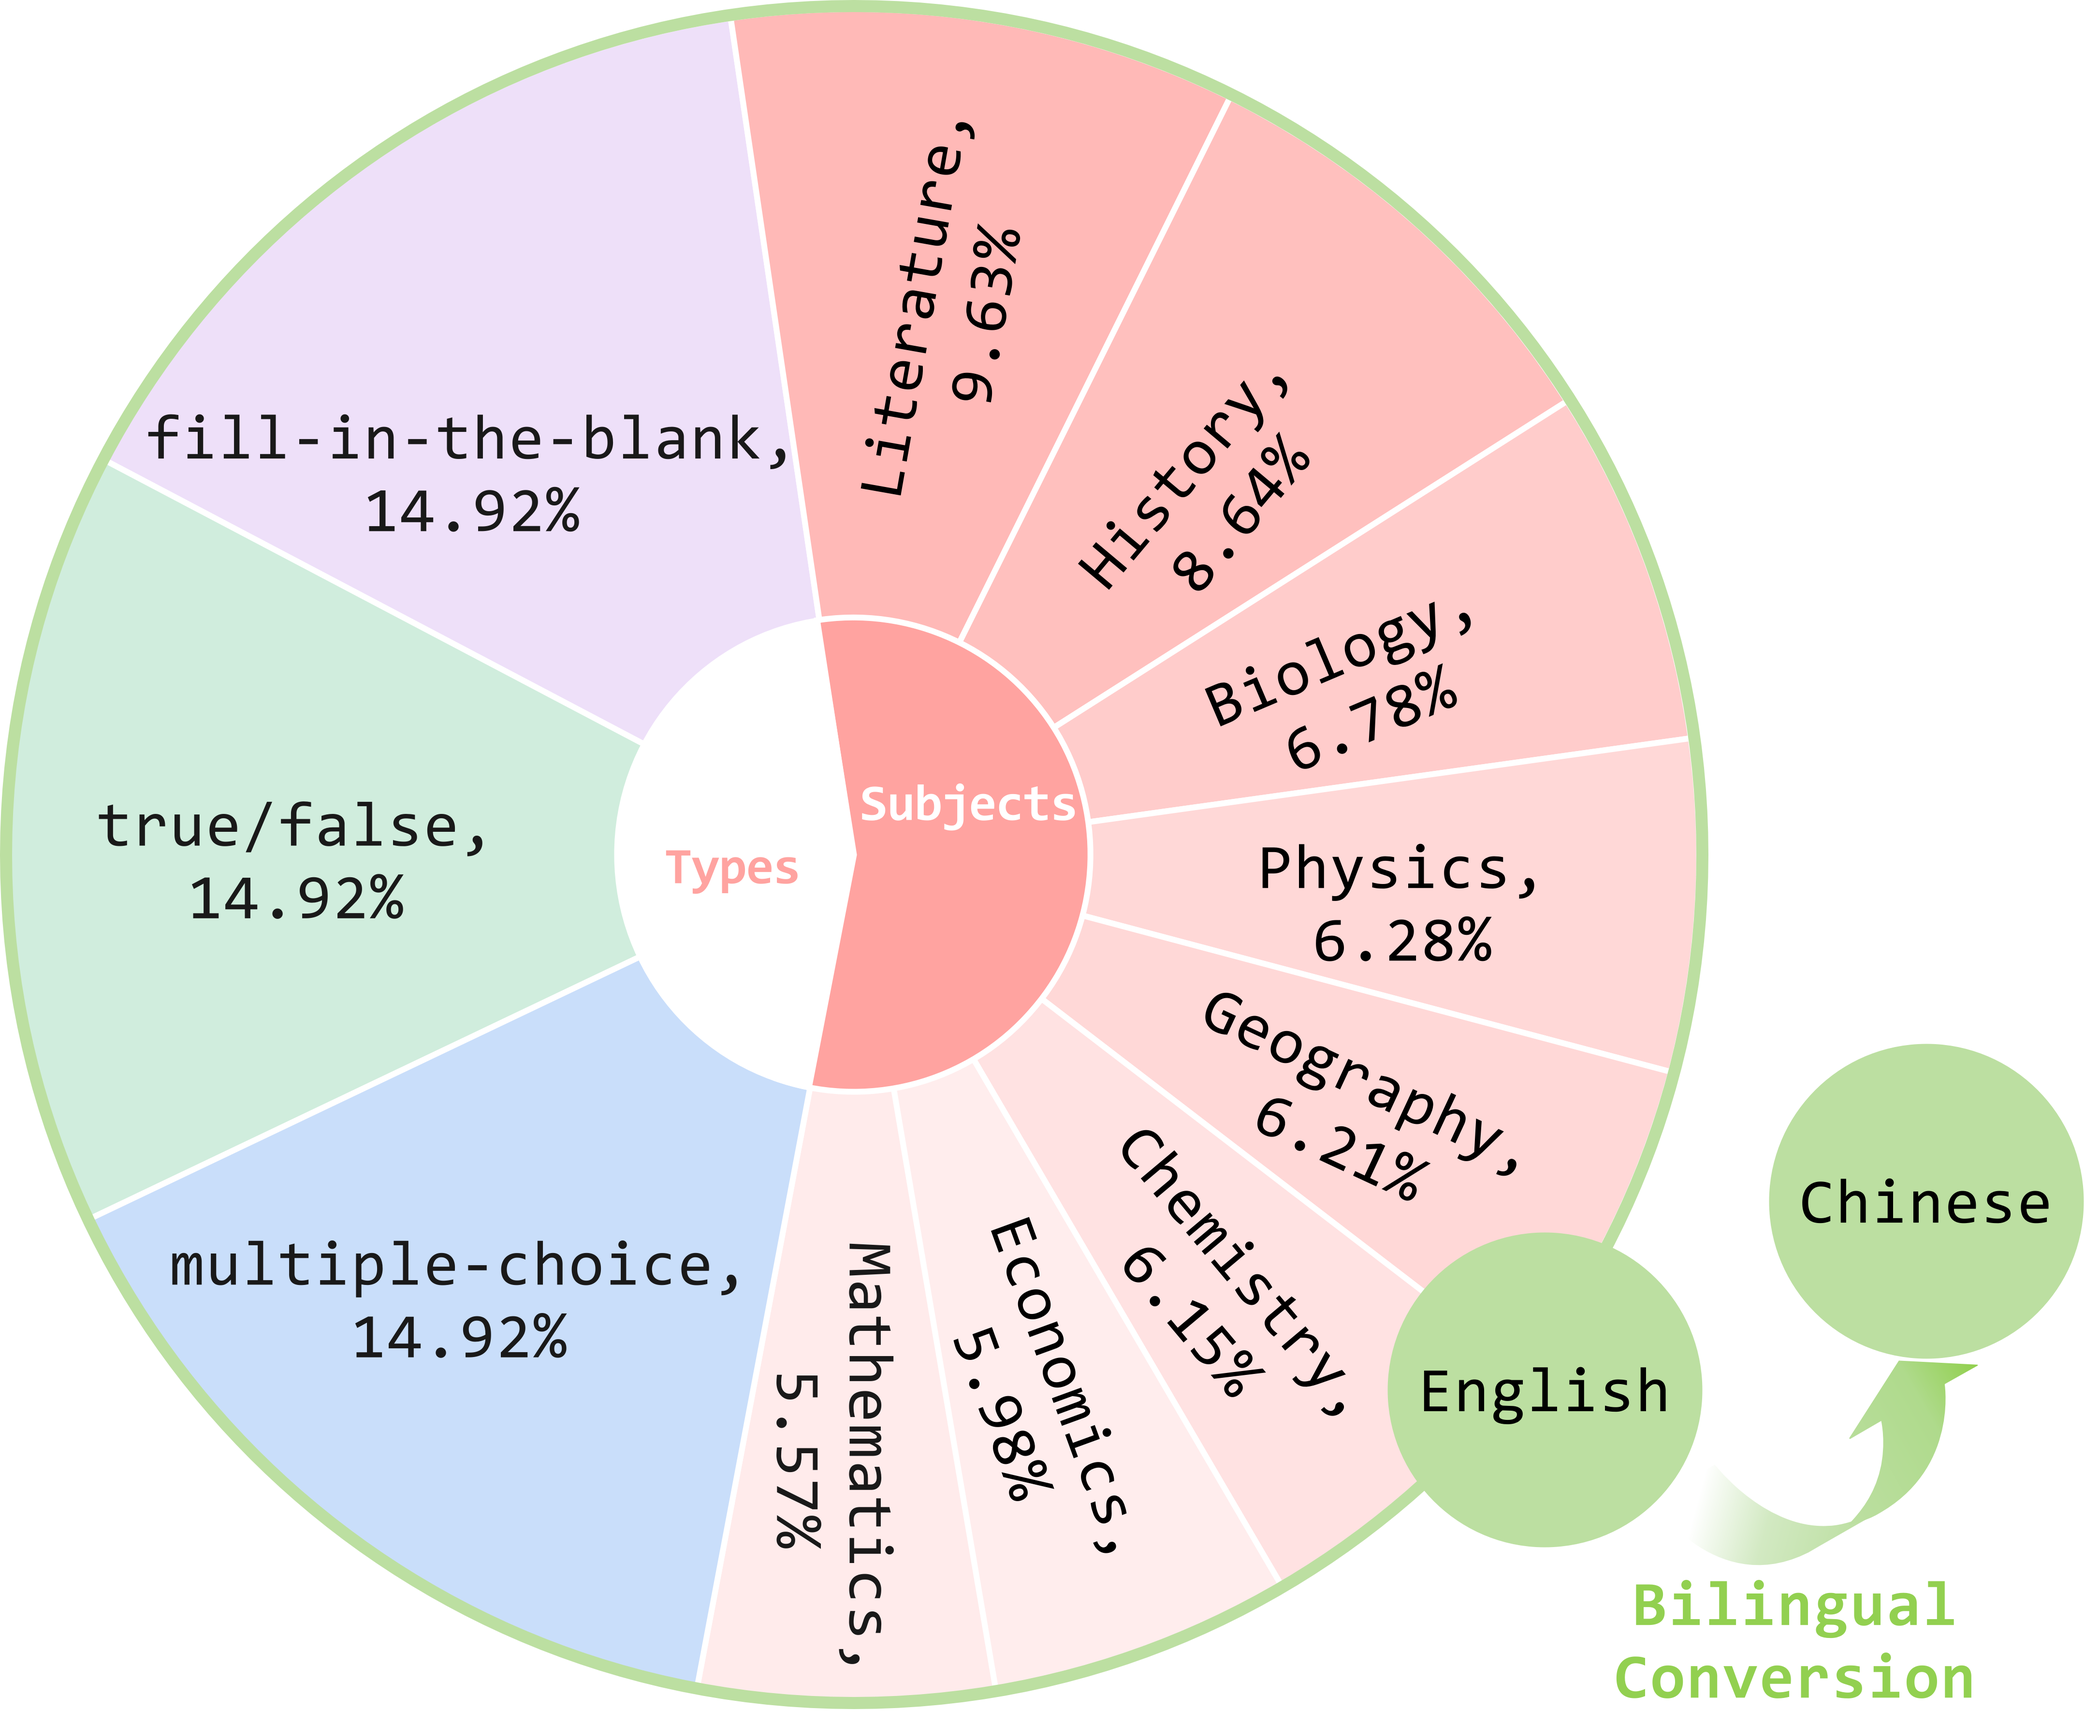
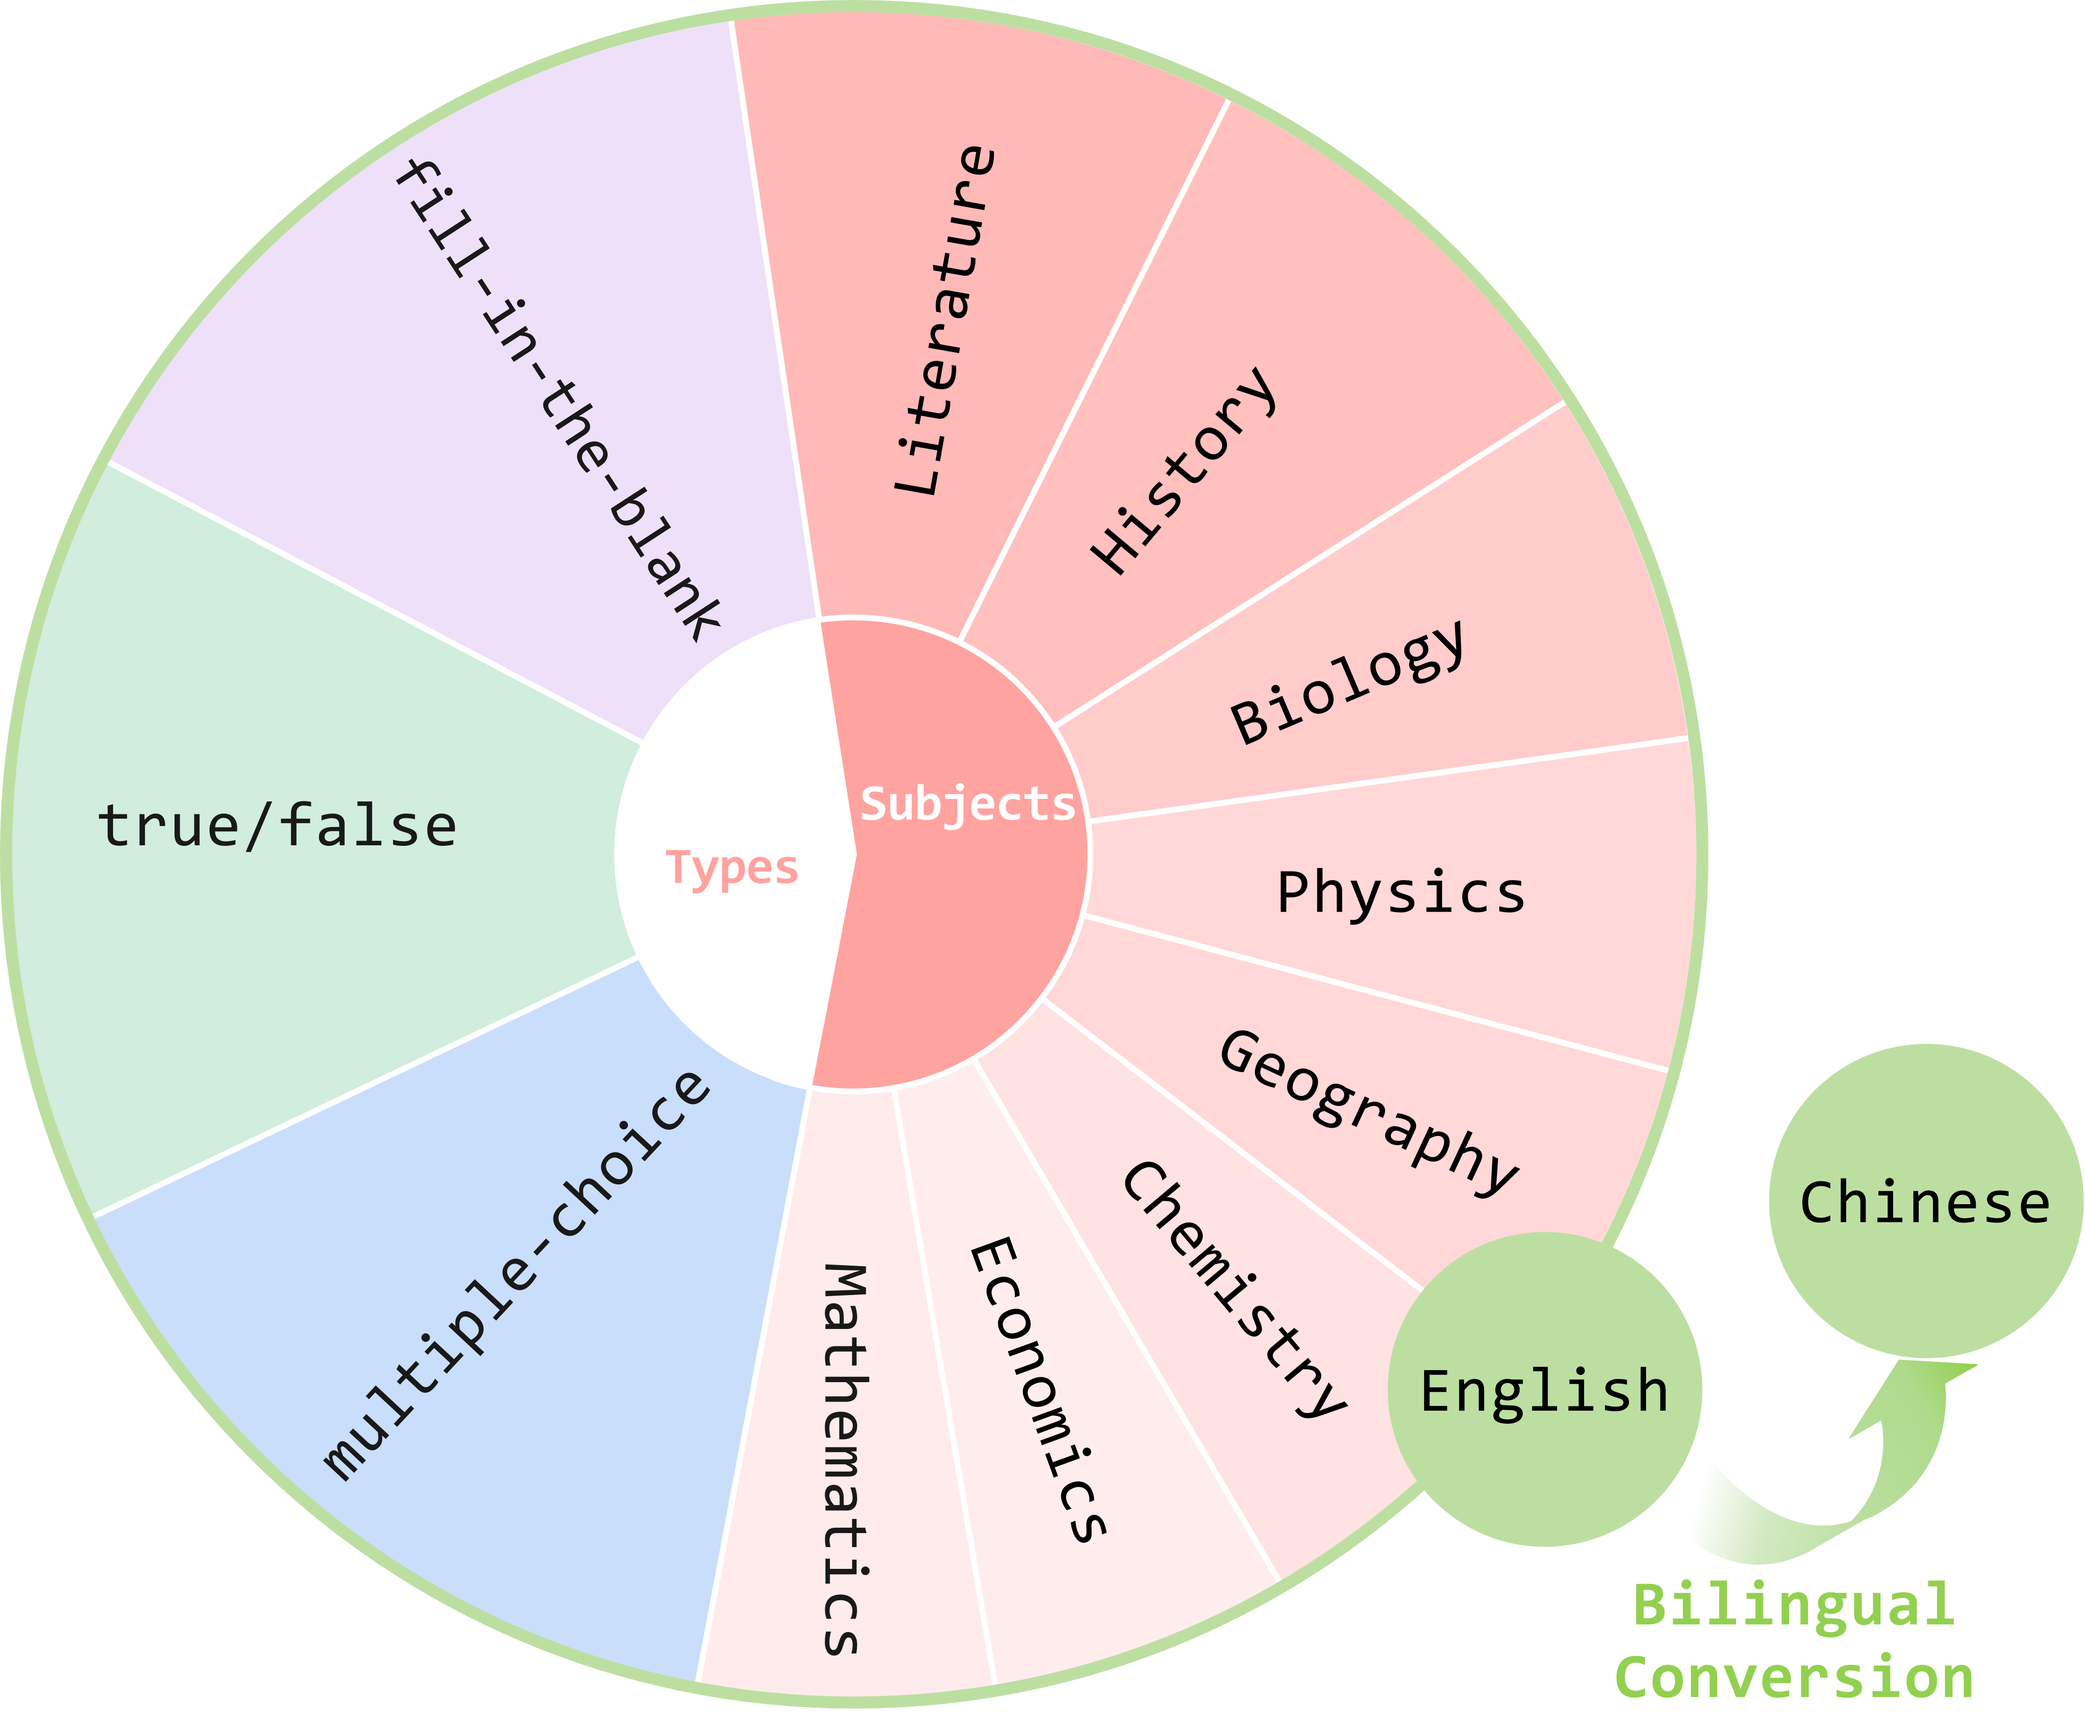
Release M3MATH

diff --git a/README.md b/README.md
@@ -2,9 +2,7 @@
 
 ## 📖Overview
 
-**M3MATH** is a multiform, multisubject, and multilingual framework for diversity enhancement and data synthesis.
-
-🌟 M3MATH is organized around three transformations: 
+**M3MATH** is a multiform, multisubject, and multilingual framework for diversity enhancement and data synthesis. It is organized around three transformations: 
 
 - **Type conversion.** Eligible problems are adapted into multiple-choice, fill-in-the-blank, and true/false forms.
 
@@ -16,7 +14,7 @@
 
 - **Multilingual conversion.** After the above conversions, each problem is converted into aligned English and Chinese variants.
 
-### 💥Seed Data Selection for Instantiation
+## 💥Seed Data Selection for Instantiation
 
 We select the exact-answer subset of Omni-MATH-2 with a difficulty level of ≥5 as our seed dataset. This manually revised subset is well-suited for M3MATH expansion, as it provides challenging tasks while excluding non-standard instances (e.g., proofs and estimations) to ensure reliable, automatic evaluation.
 
@@ -27,23 +25,22 @@ We select the exact-answer subset of Omni-MATH-2 with a difficulty level of ≥5
   <img src="assets/m3math.png" width="48%" alt="Overview of M3MATH composition">
 </p>
 
-### 📍Example Instances
+## 📍Example Instances
 
 <p align="center">
   <img src="assets/example_data.png" width="90%" alt="Examples of M3MATH instances">
 </p>
+## 📊Experiments
+
+For both the English and Chinese subsets of M3MATH (M3MATH-en and M3MATH-zh), we split the data into an 80% training set for RLVR and a 20% held-out test set for evaluation. The same split ratio is applied consistently across different question types and disciplinary subjects, ensuring that each subset preserves the overall distribution of formats and domains.
+
+Models: [Qwen3-0.6B](https://huggingface.co/Qwen/Qwen3-0.6B) | [Qwen3-1.7B](https://huggingface.co/Qwen/Qwen3-1.7B) | [Qwen3-4B](https://huggingface.co/Qwen/Qwen3-4B) | [Qwen3-8B](https://huggingface.co/Qwen/Qwen3-8B)
 
 ### 📃Data Download
 
 - Data file: [`data/omni-math-diversity.jsonl`](data/omni-math-diversity.jsonl)
 - Format: one JSON object per line
 - Core fields: `id`, `problem`, `answer`
-
-## 📊Experiments
-
-For both the English and Chinese subsets of M3MATH (M3MATH-en and M3MATH-zh), we split the data into an 80% training set for RLVR and a 20% held-out test set for evaluation. The same split ratio is applied consistently across different question types and disciplinary subjects, ensuring that each subset preserves the overall distribution of formats and domains.
-
-Models: [Qwen3-0.6B](https://huggingface.co/Qwen/Qwen3-0.6B) | [Qwen3-1.7B](https://huggingface.co/Qwen/Qwen3-1.7B) | [Qwen3-4B](https://huggingface.co/Qwen/Qwen3-4B) | [Qwen3-8B](https://huggingface.co/Qwen/Qwen3-8B)
 
 ### 🛠Quick Start
 
@@ -69,19 +66,6 @@ bash code/eval.sh \
 ```
 
 > The training script uses `actor_rollout_ref.actor.policy_loss.loss_mode=cispo`, samples 5 rollouts per prompt, and trains with the custom verifiable reward. The evaluation script sets `trainer.val_only=True`, uses one deterministic rollout per prompt, and writes validation outputs to the configured `trainer.validation_data_dir`.
-
-### 🔮Main Results
-
-| Model | Setting | M3MATH En | M3MATH Zh | GPQA-Diamond | SuperGPQA | MMLU-Pro |
-|---|---|---:|---:|---:|---:|---:|
-| Qwen3-0.6B | w/o M3MATH | 11.6 | 12.5 | 20.5 | 19.1 | 27.2 |
-| Qwen3-0.6B | w/ M3MATH | **33.2** | **30.4** | **28.4** | **27.8** | **34.2** |
-| Qwen3-1.7B | w/o M3MATH | 18.8 | 19.7 | 28.1 | 22.8 | 42.2 |
-| Qwen3-1.7B | w/ M3MATH | **29.4** | **29.7** | **32.8** | **26.1** | **48.3** |
-| Qwen3-4B | w/o M3MATH | 41.6 | 43.2 | **40.8** | 33.1 | 56.2 |
-| Qwen3-4B | w/ M3MATH | **46.6** | **45.4** | 39.2 | **37.8** | **60.6** |
-| Qwen3-8B | w/o M3MATH | 45.4 | 45.9 | 38.1 | 30.6 | 57.2 |
-| Qwen3-8B | w/ M3MATH | **49.2** | **50.1** | **42.7** | **35.3** | **62.8** |
 
 ## 🙏Acknowledgements
 
